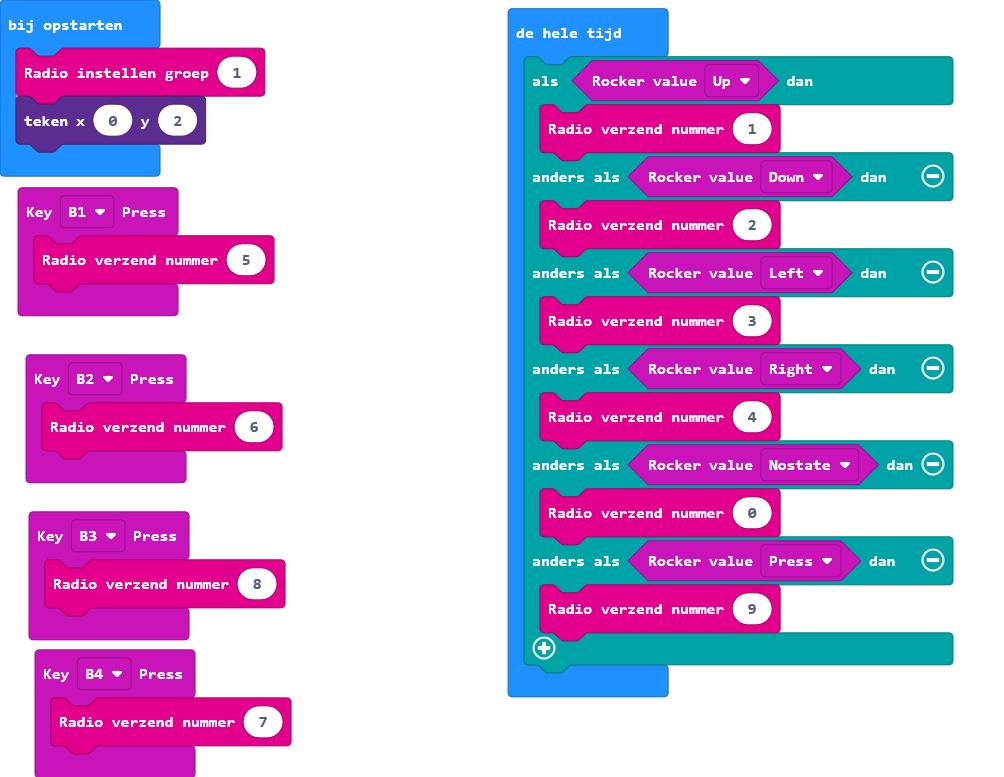
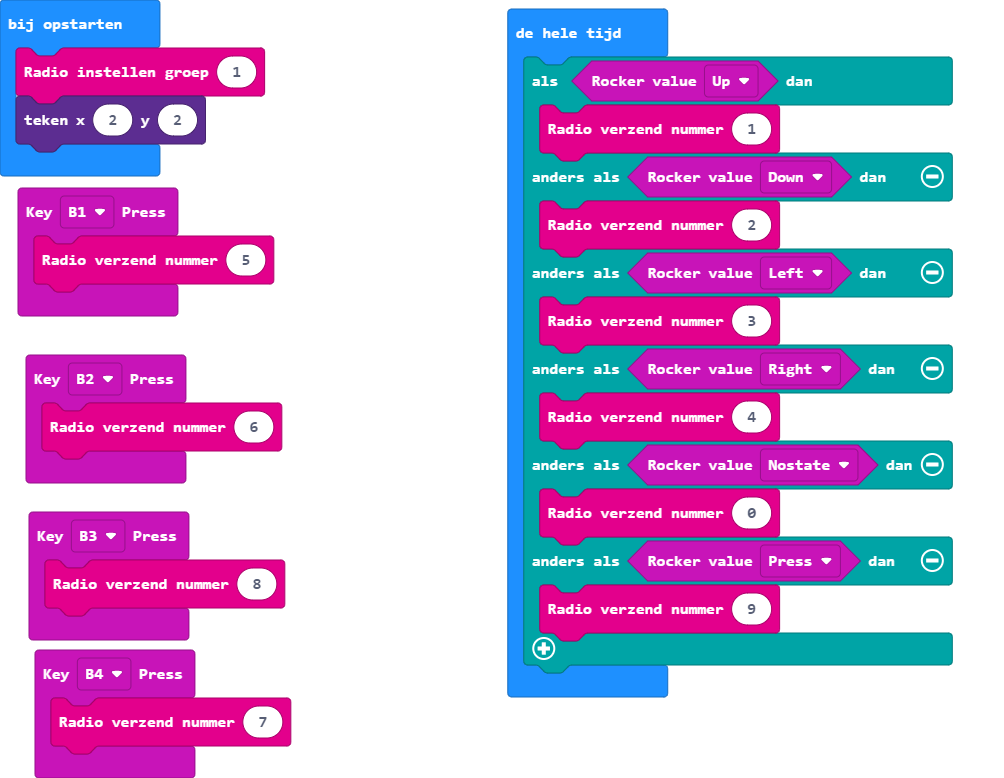
main.blocks, main.ts bijwerken

diff --git a/main.ts b/main.ts
@@ -11,7 +11,7 @@ GHBit.onKey(GHBit.enButton.B2, function () {
     radio.sendNumber(6)
 })
 radio.setGroup(1)
-led.plot(0, 2)
+led.plot(2, 2)
 basic.forever(function () {
     if (GHBit.Rocker(GHBit.enRocker.Up)) {
         radio.sendNumber(1)
